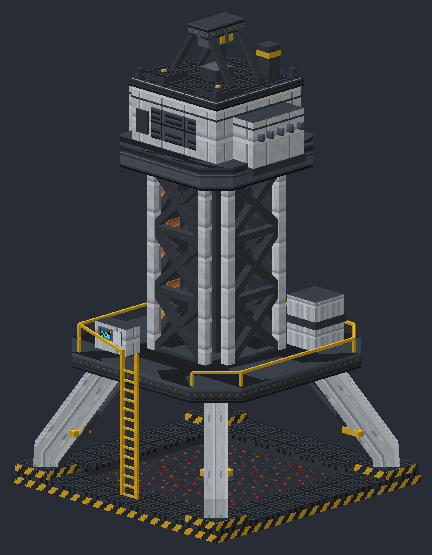
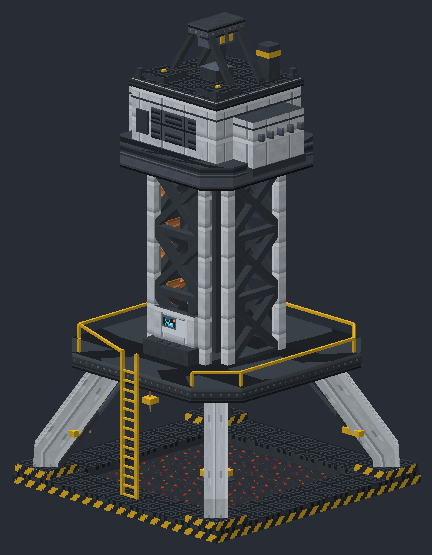
Mega drill deck tidied: the console against the column facing the ladder, the box now the coolant tank piped into the column and fed from the ground

Changed region(s): [[0.2106, 0.5514, 0.4815, 0.6432], [0.662, 0.5207, 0.8125, 0.6432], [0.331, 0.7045, 0.3611, 0.7351]]

diff --git a/art/tools/mega_drill_concept.py b/art/tools/mega_drill_concept.py
@@ -10,7 +10,9 @@ the foot so you see the laser going in. Bottom to top:
 - The emitter: a graphite pyramid hung under the deck, its lens glowing, its beam straight down into
   the pit.
 - The deck: a cut-corner square platform, grated, its edge a graphite band with the light line, a
-  yellow handrail round it, a ladder up from the ground, a console with its screen and a tank.
+  yellow handrail round it, a ladder up from the ground; the console against the column facing the
+  ladder's top; and the coolant tank beside the column, piped into its coolant duct and fed by a
+  supply line down off the deck's edge.
 - The column: an open lattice, eight posts with big X braces on its four faces, the drive shaft
   inside with an amber band, a square duct up one side.
 - The collar: a wider cut-corner ring with vents and its light line.
@@ -106,6 +108,7 @@ for xa, xb in zip(steps, steps[1:]):
 # ---------------------------------------------------------------- the buttress legs
 DECK_Y = 4 * B
 DECK_W, DECK_C = 60, 18
+CW, CC = 26, 8          # the column's half width and cut corners
 for sx, sz in ((-1, -1), (1, -1), (1, 1), (-1, 1)):
     foot = (C + sx * (C - 12), C + sz * (C - 12))
     head = (C + sx * 36, C + sz * 36)
@@ -158,15 +161,30 @@ for lx in (C - 5, C + 5):
     d.box('breeder_rail', lx - 0.8, 0, LZ - 0.8, lx + 0.8, RY + 10, LZ + 0.8)
 for y in range(6, int(RY), 5):
     d.box('breeder_rail', C - 5, y, LZ - 0.5, C + 5, y + 1, LZ + 0.5)
-# A console on the deck beside the ladder, and a tank at the back.
-d.box('drill_casing', C + 18, RY, C - 46, C + 40, RY + 14, C - 36, top='breeder_graphite', skip=('down',))
-d.box('breeder_fitting', C + 21, RY + 5, C - 46.5, C + 37, RY + 12, C - 46, decals={'north': 'screen'}, skip=('south',))
-d.box('drill_pot', C - 44, RY, C + 26, C - 24, RY + 26, C + 46, top='breeder_graphite')
-d.box('breeder_graphite', C - 45, RY + 12, C + 25, C - 23, RY + 16, C + 47, skip=('up', 'down'))
+# The console: its back against the column, facing the top of the ladder, so it greets whoever
+# climbs onto the deck: a graphite desk with its lamps, and an upright panel carrying the screen.
+CON = (C - 16, C + 16)          # across the column's front face
+CZ = C - 26                     # the column's front
+d.box('breeder_graphite', CON[0], RY, CZ - 10, CON[1], RY + 8, CZ, top='breeder_graphite', skip=('down',))
+d.box('drill_casing', CON[0] + 2, RY + 8, CZ - 4, CON[1] - 2, RY + 24, CZ, top='breeder_graphite')
+d.box('breeder_fitting', C - 8, RY + 12, CZ - 4.6, C + 8, RY + 21, CZ - 4, decals={'north': 'screen'}, skip=('south',))
+for k in range(3):
+    d.box('glow', C - 7 + k * 6, RY + 8, CZ - 9, C - 5 + k * 6, RY + 8.6, CZ - 7, skip=('down',))
+# The coolant tank beside the column, banded, piped into the column's coolant duct, and fed by a
+# supply line dropping off the deck's edge to the ground (where the intake pumps go).
+TX, TZ = C + 40, C + 16
+d.box('drill_pot', TX - 8, RY, TZ - 8, TX + 8, RY + 28, TZ + 8, top='breeder_graphite')
+for y in (RY + 6, RY + 20):
+    d.box('breeder_graphite', TX - 8.5, y, TZ - 8.5, TX + 8.5, y + 3, TZ + 8.5, skip=('up', 'down'))
+d.sweep('breeder_pipe', [(TX - 8, RY + 24, TZ - 4), (C + CW + 5, RY + 24, TZ - 4), (C + CW + 5, RY + 24, C - 2)], 1.6, 1.6,
+        lambda i: (0, 1, 0), closed=False, caps=True)
+d.sweep('breeder_pipe', [(TX + 8, RY + 4, TZ), (C + DECK_W + 3, RY + 4, TZ), (C + DECK_W + 3, RING, TZ)], 1.6, 1.6,
+        lambda i: (0, 1, 0), closed=False, caps=True)
+d.box('breeder_rail', C + DECK_W, RY - 6, TZ - 3, C + DECK_W + 6, RY - 3, TZ + 3)
+d.box('breeder_rail', C + DECK_W, 24, TZ - 3, C + DECK_W + 6, 27, TZ + 3)
 
 # ---------------------------------------------------------------- the column
 COL = (RY, RY + 6 * B)
-CW, CC = 26, 8
 for x, z in corners(CW, CC):
     d.box('drill_casing', x - 2.5, COL[0], z - 2.5, x + 2.5, COL[1], z + 2.5, skip=('down', 'up'))
 for face, (ax, az, bx, bz) in (('north', (C - CW + CC, C - CW, C + CW - CC, C - CW)), ('south', (C - CW + CC, C + CW, C + CW - CC, C + CW)),

diff --git a/docs/DESIGN.md b/docs/DESIGN.md
@@ -591,7 +591,7 @@ The mod's own miner: not a box quarry but a drill that melts its way straight do
   - Real basis: millimetre-wave drilling, now being developed, where a gyrotron (the microwave source that heats fusion plasma) beams energy down a borehole to vaporise the rock, the vapour is blown back up the hole, and the walls glaze to glass. The rock-melting drills of the 1970s are its ancestors.
 - **How it drills (the user's idea, 4 Oct 2026; to confirm in play):** the beam heats the glass room, which glows brighter, and the 8 x 8 layer of rock beneath it glows red; the blocks crack and pop one after another (sparks, debris), and once the layer is clear the whole tower lowers itself a block into its shaft and starts again. It leaves its pipe behind as it sinks: an umbilical up the glazed shaft to the quarry block, carrying power down and what it mines up. The tower is drawn at its depth (not built from blocks), so it moves smoothly and costs little, and it fits inside its 8 x 8 so it can sink all the way. Real basis: thermal spallation drilling, where rock heated fast enough cracks and flakes apart. Open: whether a tower climbs back up at bedrock or when its drill is taken out (leaning yes, both).
 - **Option B, the mega drill (chosen 4 Oct 2026; to refine):** one big static machine instead of a quarry block and four towers. This is the one we build; the sinking towers above are kept on file. Concept: `art/tools/mega_drill_concept.py`, render `art/concepts/mega_drill.png`.
-  - **Shape (4 Oct 2026, from the user's references):** one landmark tower over the middle of the chunk on a 9 x 9 base, about 13 blocks tall, angular rather than round (squares with their corners cut off, which players prefer to round shapes), and open at the foot so you watch the laser going in. A hazard-striped ring round a 6 x 6 molten pit; four sloped buttress legs from the corners up under the deck, with hydraulic rams beside them; under the deck the emitter, a graphite pyramid whose beam runs straight down into the pit. Then a cut-corner deck with its light line, a yellow handrail, a ladder up from the ground, a console and a tank; an open lattice column with X braces on its faces and the drive shaft inside, a copper coolant duct up one side; a wider collar with its light line; and on top the drive housing (reworked 4 Oct: a round head with windows and a beacon looked like a lighthouse): a heavy box with louvred vents and an inspection hatch, generator pods with cooling fins on its flanks, and on its roof a rig's crown frame with its sheave block, square cooling fans, short exhaust stacks and warning lamps on the corners. (A round version and a square block version came first.)
+  - **Shape (4 Oct 2026, from the user's references):** one landmark tower over the middle of the chunk on a 9 x 9 base, about 13 blocks tall, angular rather than round (squares with their corners cut off, which players prefer to round shapes), and open at the foot so you watch the laser going in. A hazard-striped ring round a 6 x 6 molten pit; four sloped buttress legs from the corners up under the deck, with hydraulic rams beside them; under the deck the emitter, a graphite pyramid whose beam runs straight down into the pit. Then a cut-corner deck with its light line, a yellow handrail and a ladder up from the ground; on it the console, its back to the column, facing the top of the ladder, and the coolant tank beside the column, piped into its coolant duct and fed by a supply line down off the deck's edge (where the intake pumps go); an open lattice column with X braces on its faces and the drive shaft inside, a copper coolant duct up one side; a wider collar with its light line; and on top the drive housing (reworked 4 Oct: a round head with windows and a beacon looked like a lighthouse): a heavy box with louvred vents and an inspection hatch, generator pods with cooling fins on its flanks, and on its roof a rig's crown frame with its sheave block, square cooling fans, short exhaust stacks and warning lamps on the corners. (A round version and a square block version came first.)
   - **What it mines:** the whole chunk it stands in (16 x 16), starting 8 blocks under its plinth and down to bedrock, so it always stands on a solid crust of untouched ground. The cavity's walls and roof glaze to fused rock as it goes, which keeps water and lava out and stops sand and gravel falling from the crust. Everything stays in its own chunk, so it needs no chunk loading.
   - **Upgrades:** drill heads in Mk I, II and III, each crafted from the last and swapped in at the controller (rule 11); speed modules; the filter. Tungsten tips wear as before.
   - **Coolant:** it drinks water to cool the bore, venting steam from its stacks (rule 12), so it needs intake pumps beside it.
